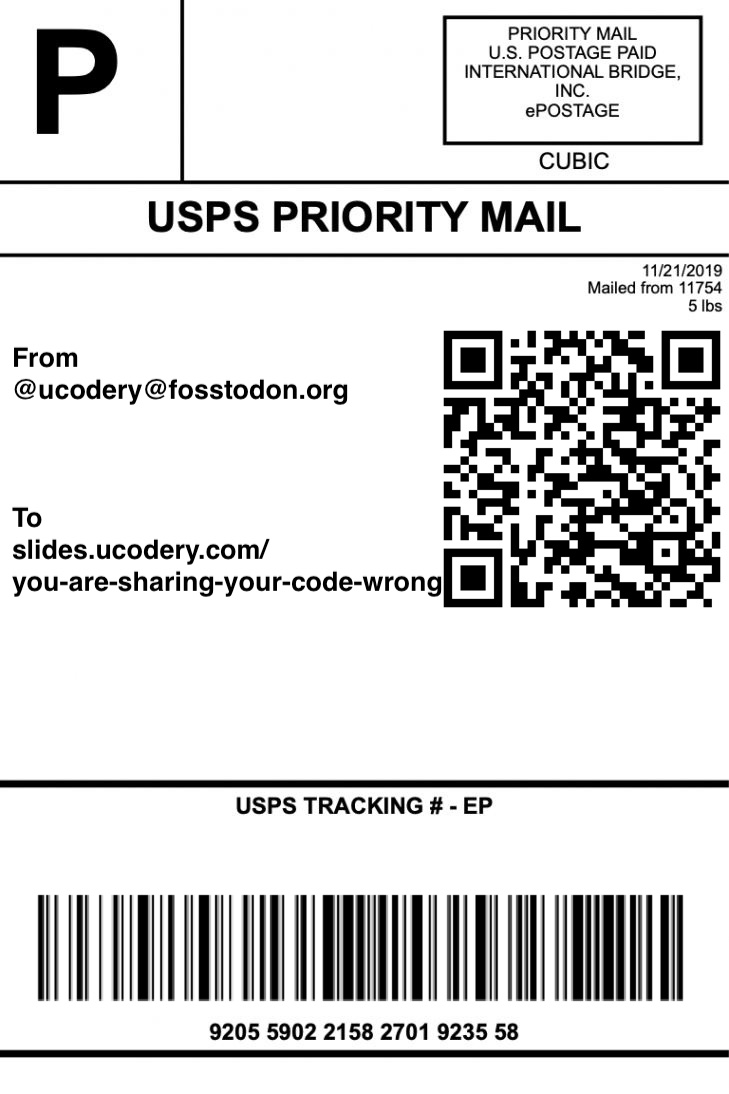
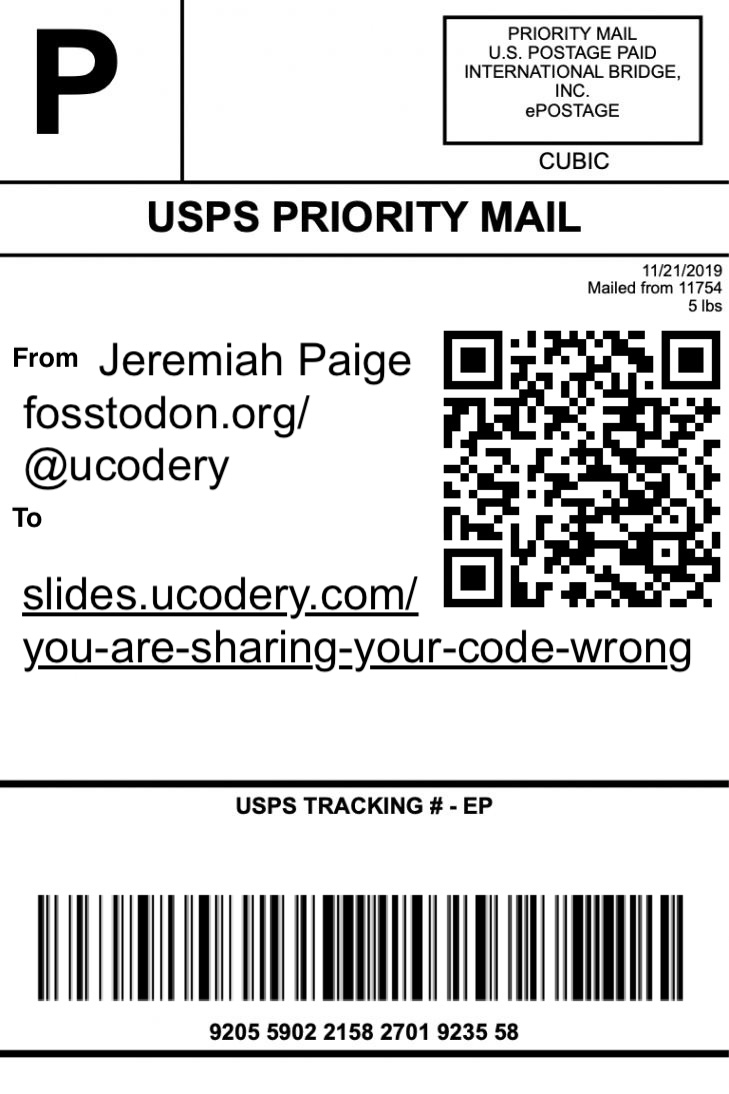
Apply conference suggestions

Changed region(s): [[0.0, 0.4973, 0.9657, 0.6216], [0.0, 0.3108, 0.5734, 0.4662]]

diff --git a/slides/you-are-sharing-your-code-wrong/style.css b/slides/you-are-sharing-your-code-wrong/style.css
@@ -3,6 +3,8 @@
   --slidev-code-font-family: ui-monospace, SFMono-Regular, Menlo, Monaco,
     Consolas, "Liberation Mono", "Courier New", monospace;
   --slidev-code-background: rgb(248 248 248 / 80%);
+  --slidev-code-font-size: 1.05rem;
+  --slidev-code-line-height: 1.15rem;
 }
 .slidev-layout h1 {
   color: #0a0a0a;
@@ -41,5 +43,5 @@
   background: rgba(242, 242, 242, 0.35);
 }
 .slidev-layout ul code {
-  font-size: 2rem;
+  font-size: 1.6rem;
 }

diff --git a/slides/you-are-sharing-your-code-wrong/slides.md b/slides/you-are-sharing-your-code-wrong/slides.md
@@ -18,10 +18,16 @@ class: text-center
 
 # You Are Sharing Your Code Wrong
 ## (and what to do about it)
+### Jeremiah Paige (he/him)
 
 <style>
   h2 {
     position: relative;
+    top: 35%;
+  }
+  h3 {
+    position: relative;
+    padding-top: 2rem;
     top: 35%;
   }
   .slidev-page {
@@ -794,6 +800,7 @@ layout: default
 transition: view-transition
 ---
 
+````md magic-move
 ```python
 # /// script
 # dependencies = ["urllib3==2.2.*", "geopy==2.4.*"]
@@ -820,6 +827,7 @@ if __name__ == "__main__":
     import sys
     print("\t".join(fetch_forecast(*locate(sys.argv[1]))))
 ```
+````
 
 <style>
   .slidev-page {
@@ -859,6 +867,7 @@ dependencies = ["urllib3==2.2.*", "geopy==2.4.*"]
 ```
 ````
 
+````md magic-move
 ```python
 import geopy.geocoders
 import urllib3
@@ -877,7 +886,12 @@ def fetch_forecast(lat, lon):
         "☀"
         for period in forecast.json()["properties"]["periods"]
    ]
+
+if __name__ == "__main__":
+    import sys
+    print("\t".join(fetch_forecast(*locate(sys.argv[1]))))
 ```
+````
 
 <style>
   .slidev-page {
@@ -1014,8 +1028,9 @@ layout: default
 ## A wheel lets the reciever
 
 - install how they want
-- track where a package came from and what it brought
-- re-share without having to re-package
+- track where a package came from
+- know what other packages are required
+- re-share without having to re-wrap
 
 <style>
   .slidev-page {
